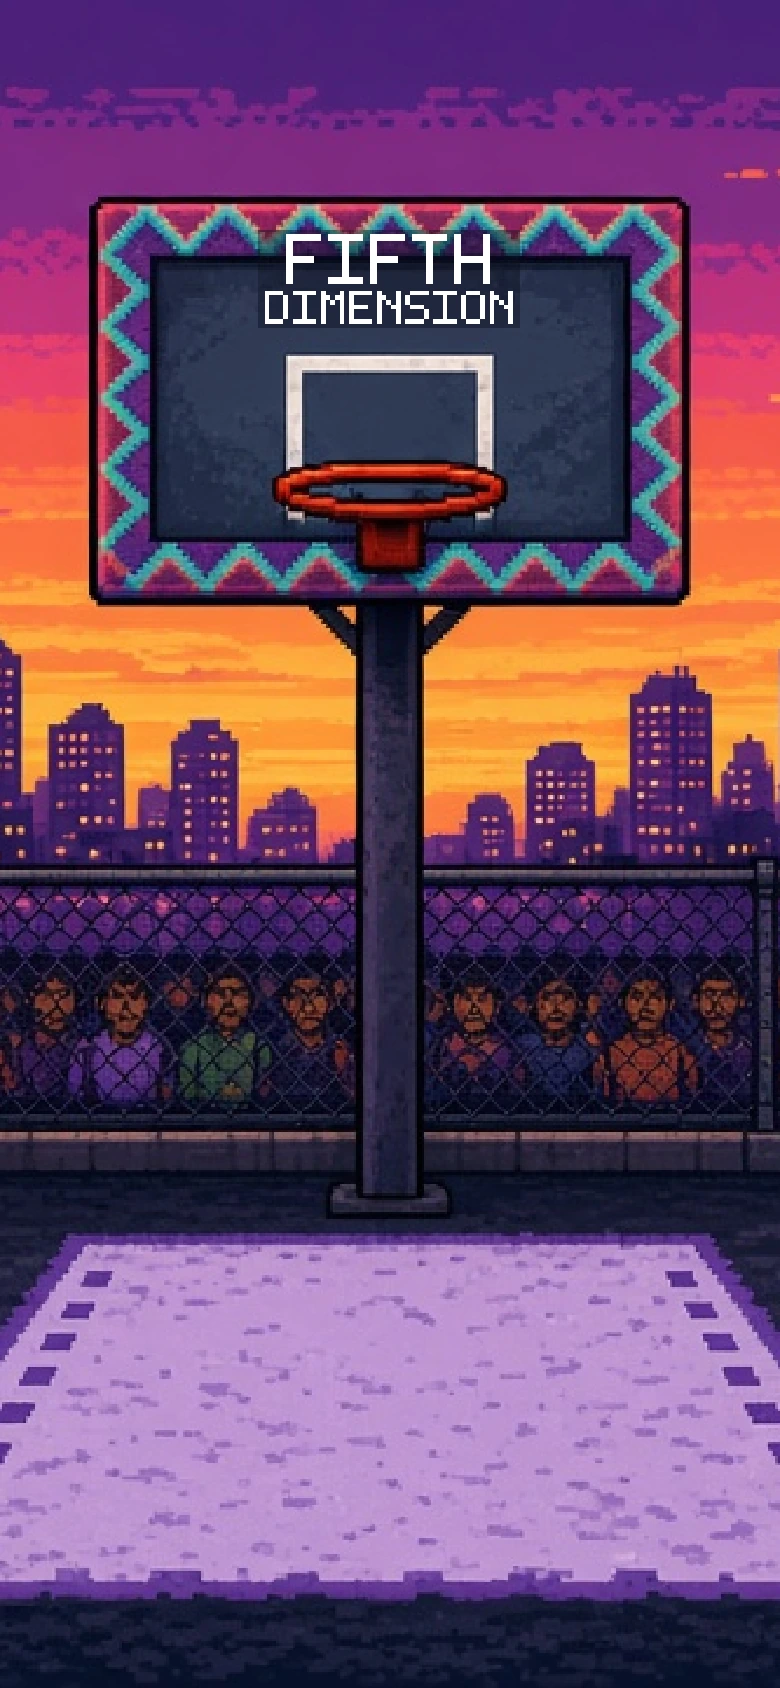
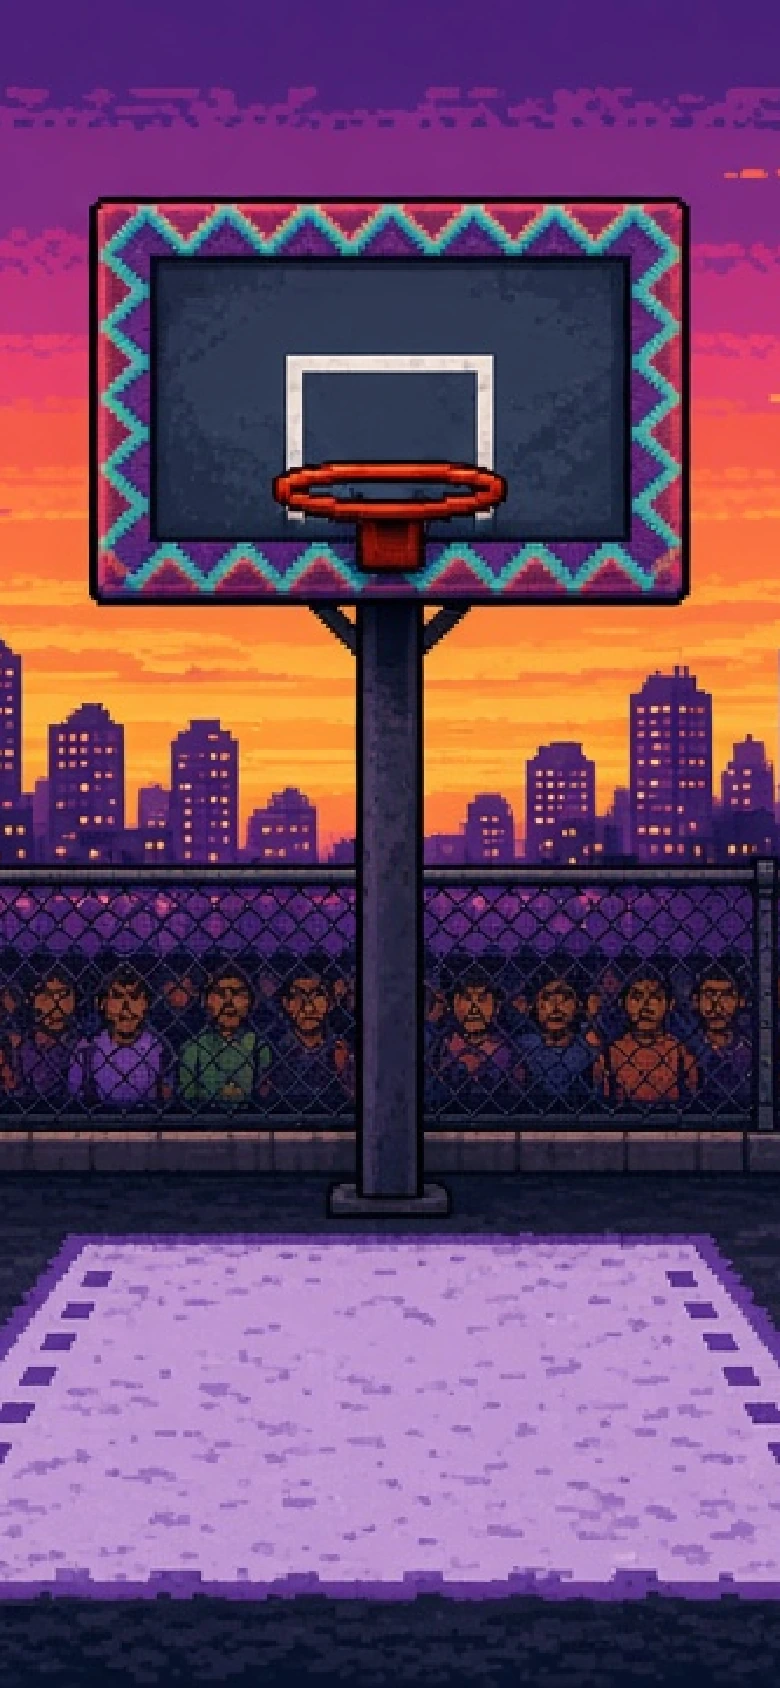
fix(arcade): real stacked wordmark on backboard glass
Replace pixel-font FIFTH DIMENSION with Jenks's actual stacked
logo (lanczos3 at exact display size, LINEAR filter, subtle shadow).
Clean court-bg; logo overlay only. Court/net/ball/physics/UI unchanged.

Changed region(s): [[0.3077, 0.1232, 0.6769, 0.2156]]

diff --git a/src/arcade/courtVisionPhaser/createGame.ts b/src/arcade/courtVisionPhaser/createGame.ts
@@ -85,6 +85,7 @@ export function createCourtVisionGame(
     tutorial!: Phaser.GameObjects.Container
     rimFront!: Phaser.GameObjects.Image
     rimGlow!: Phaser.GameObjects.Graphics
+    wordmarkSpr!: Phaser.GameObjects.Image
 
     mode: CvMode = mode
     challengeCfg: CvChallengeConfig | null = bridge.challenge ?? null
@@ -147,6 +148,7 @@ export function createCourtVisionGame(
       this.load.image('fire', `${base}art/fire-particle.png`)
       this.load.image('firePurple', `${base}art/fire-particle-purple.png`)
       this.load.image('rimFront', `${base}art/rim-front.png`)
+      this.load.image('wordmarkBb', `${base}art/wordmark-backboard.webp`)
       for (let i = 0; i < NET_FRAMES; i++) {
         this.load.image(`net${i}`, `${base}art/net-${i}.png`)
       }
@@ -230,6 +232,13 @@ export function createCourtVisionGame(
       this.rimFront.texture.setFilter(Phaser.Textures.FilterMode.NEAREST)
 
       this.rimGlow = this.add.graphics().setDepth(6.5).setAlpha(0)
+
+      // Real stacked logo — pre-sized texture, LINEAR for clean edges under pixelArt
+      this.wordmarkSpr = this.add
+        .image(W * COURT_BG.wordmarkX, H * COURT_BG.wordmarkY, 'wordmarkBb')
+        .setDisplaySize(COURT_BG.wordmarkW, COURT_BG.wordmarkH)
+        .setDepth(4)
+      this.wordmarkSpr.texture.setFilter(Phaser.Textures.FilterMode.LINEAR)
 
       this.trailGraphics = this.add.graphics().setDepth(8)
 

diff --git a/src/arcade/courtVisionPhaser/bgLayout.ts b/src/arcade/courtVisionPhaser/bgLayout.ts
@@ -11,6 +11,9 @@ export const COURT_BG = {
   wordmarkY: 0.168,
   /** Shooter square top */
   squareTop: 0.2111,
+  /** Real logo overlay (exact display px, LINEAR) */
+  wordmarkW: 117,
+  wordmarkH: 58,
 } as const
 
 /** Overlay sprite sizes tuned to baked rim (~97px wide at 390). */
